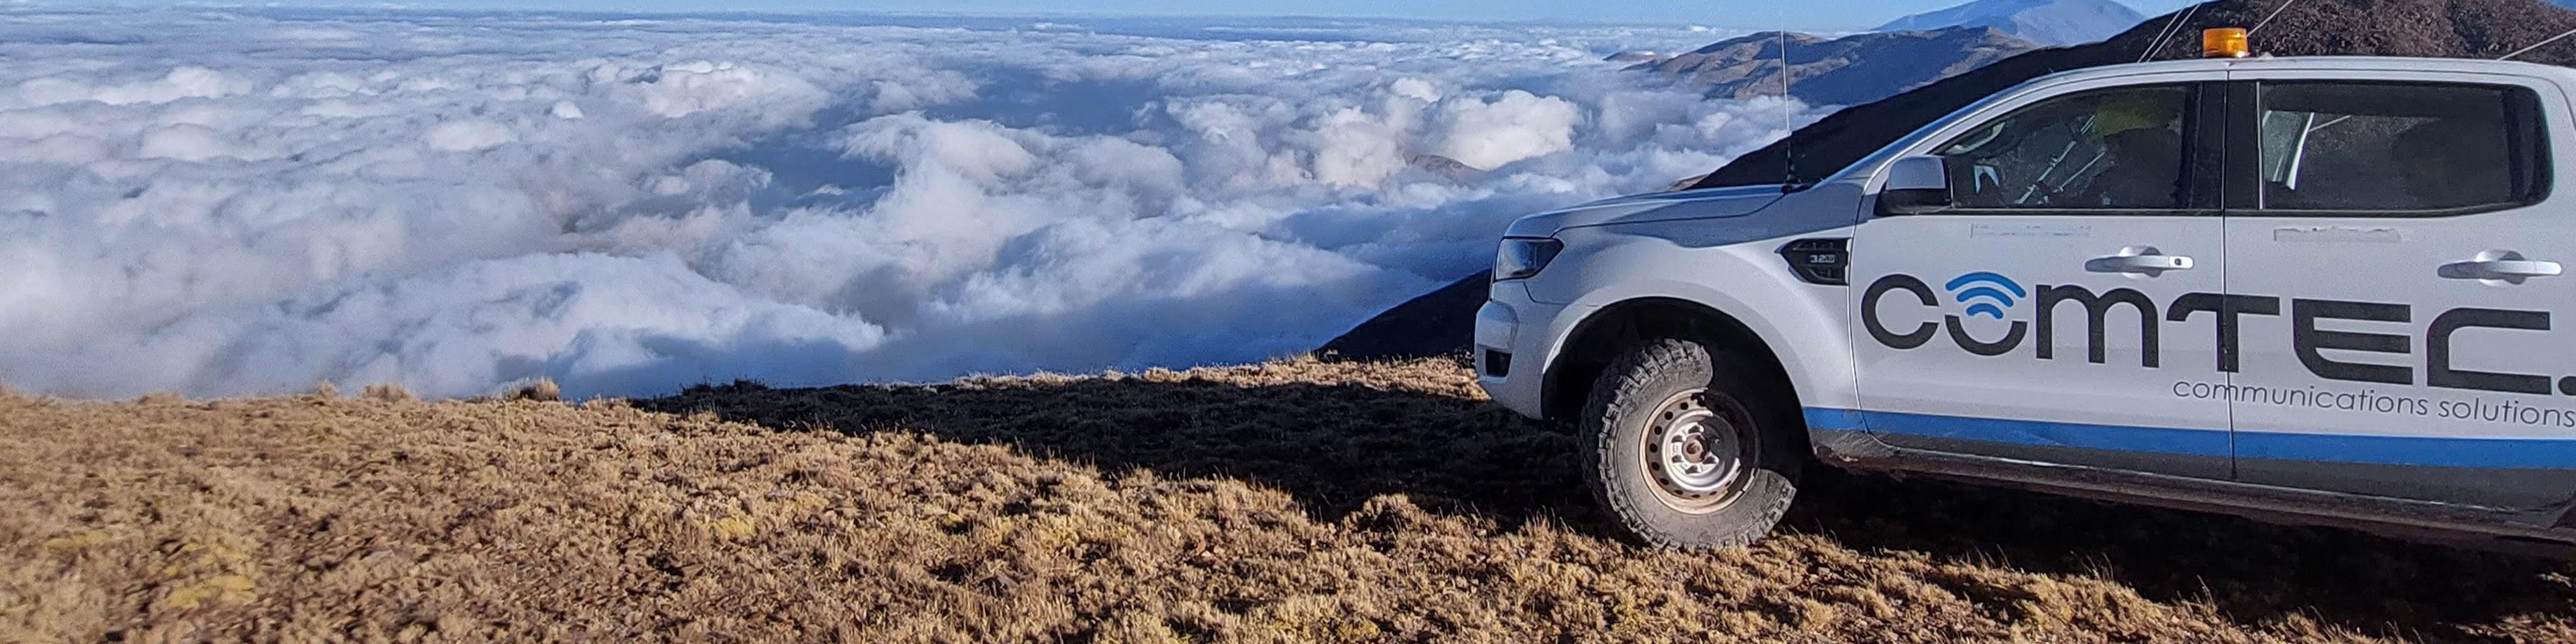
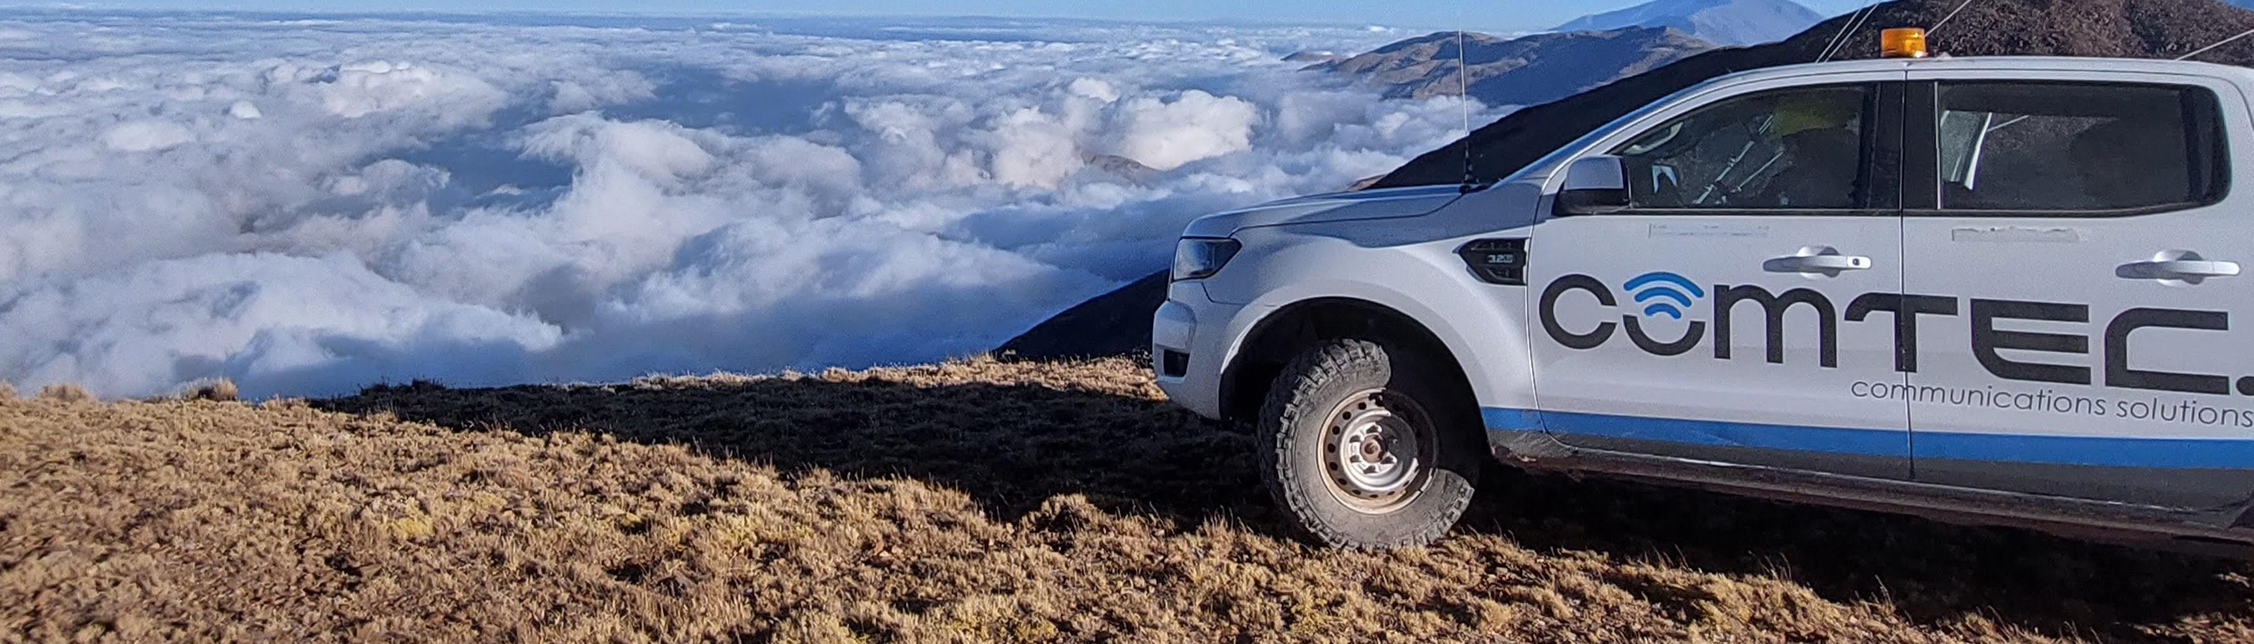
se actualiza fondo de body

diff --git a/scss/html/_home.scss b/scss/html/_home.scss
@@ -36,8 +36,9 @@ h1{
 
   .contenedor-img1{
     font-size: 0px;
-    background-image: url(../img/camioneta-comtec.jpg);
-    height: 45vh;
+    // background-image: url(../img/camioneta-comtec.jpg);
+    background-image: url(../img/kevar.jpeg);
+    height: 40vh;
     background-size: cover;
     background-repeat: no-repeat;
     background-attachment: unset;
@@ -50,12 +51,19 @@ h1{
     font-family:'Segoe UI', Tahoma, Geneva, Verdana, sans-serif;
     @include tablet{
         font-size: xx-large;
+        height: 50vh;
+    }
+    @include desktop{
+        font-size: xx-large;
+        // height: 60vh;
+        height: 70vh;
     }
 }
 .contenedor-img2{
     background-color: $negro;
-    background-image: url(../img/camioneta-nieve.png);
-    height: 40vh;
+    // background-image: url(../img/kevar.jpeg);
+    background-image: url(../img/camioneta-comtec.jpg);
+    height: 30vh;
     background-size: cover;
     background-repeat: no-repeat;
     background-attachment: unset;
@@ -67,6 +75,15 @@ h1{
     text-shadow: 3px 2px 3px $negro;
     font-size: xx-large;
     font-family:'Segoe UI', Tahoma, Geneva, Verdana, sans-serif;
+    @include tablet{
+        // height: 90vh;
+        height: 50vh;
+    }
+    @include desktop{
+        // height: 90vh;
+        height: 60vh;
+    }
+    
     p{
         margin-left: 100px;
         margin-right: 100px;

diff --git a/css/main.css b/css/main.css
@@ -56,8 +56,8 @@ h2 {
 
 .contenedor-img1 {
   font-size: 0px;
-  background-image: url(../img/camioneta-comtec.jpg);
-  height: 45vh;
+  background-image: url(../img/kevar.jpeg);
+  height: 40vh;
   background-size: cover;
   background-repeat: no-repeat;
   background-attachment: unset;
@@ -72,13 +72,20 @@ h2 {
 @media screen and (min-width: 768px) {
   .contenedor-img1 {
     font-size: xx-large;
+    height: 50vh;
+  }
+}
+@media screen and (min-width: 1024px) {
+  .contenedor-img1 {
+    font-size: xx-large;
+    height: 70vh;
   }
 }
 
 .contenedor-img2 {
   background-color: #0E0D0D;
-  background-image: url(../img/camioneta-nieve.png);
-  height: 40vh;
+  background-image: url(../img/camioneta-comtec.jpg);
+  height: 30vh;
   background-size: cover;
   background-repeat: no-repeat;
   background-attachment: unset;
@@ -90,6 +97,16 @@ h2 {
   text-shadow: 3px 2px 3px #0E0D0D;
   font-size: xx-large;
   font-family: "Segoe UI", Tahoma, Geneva, Verdana, sans-serif;
+}
+@media screen and (min-width: 768px) {
+  .contenedor-img2 {
+    height: 50vh;
+  }
+}
+@media screen and (min-width: 1024px) {
+  .contenedor-img2 {
+    height: 60vh;
+  }
 }
 .contenedor-img2 p {
   margin-left: 100px;
